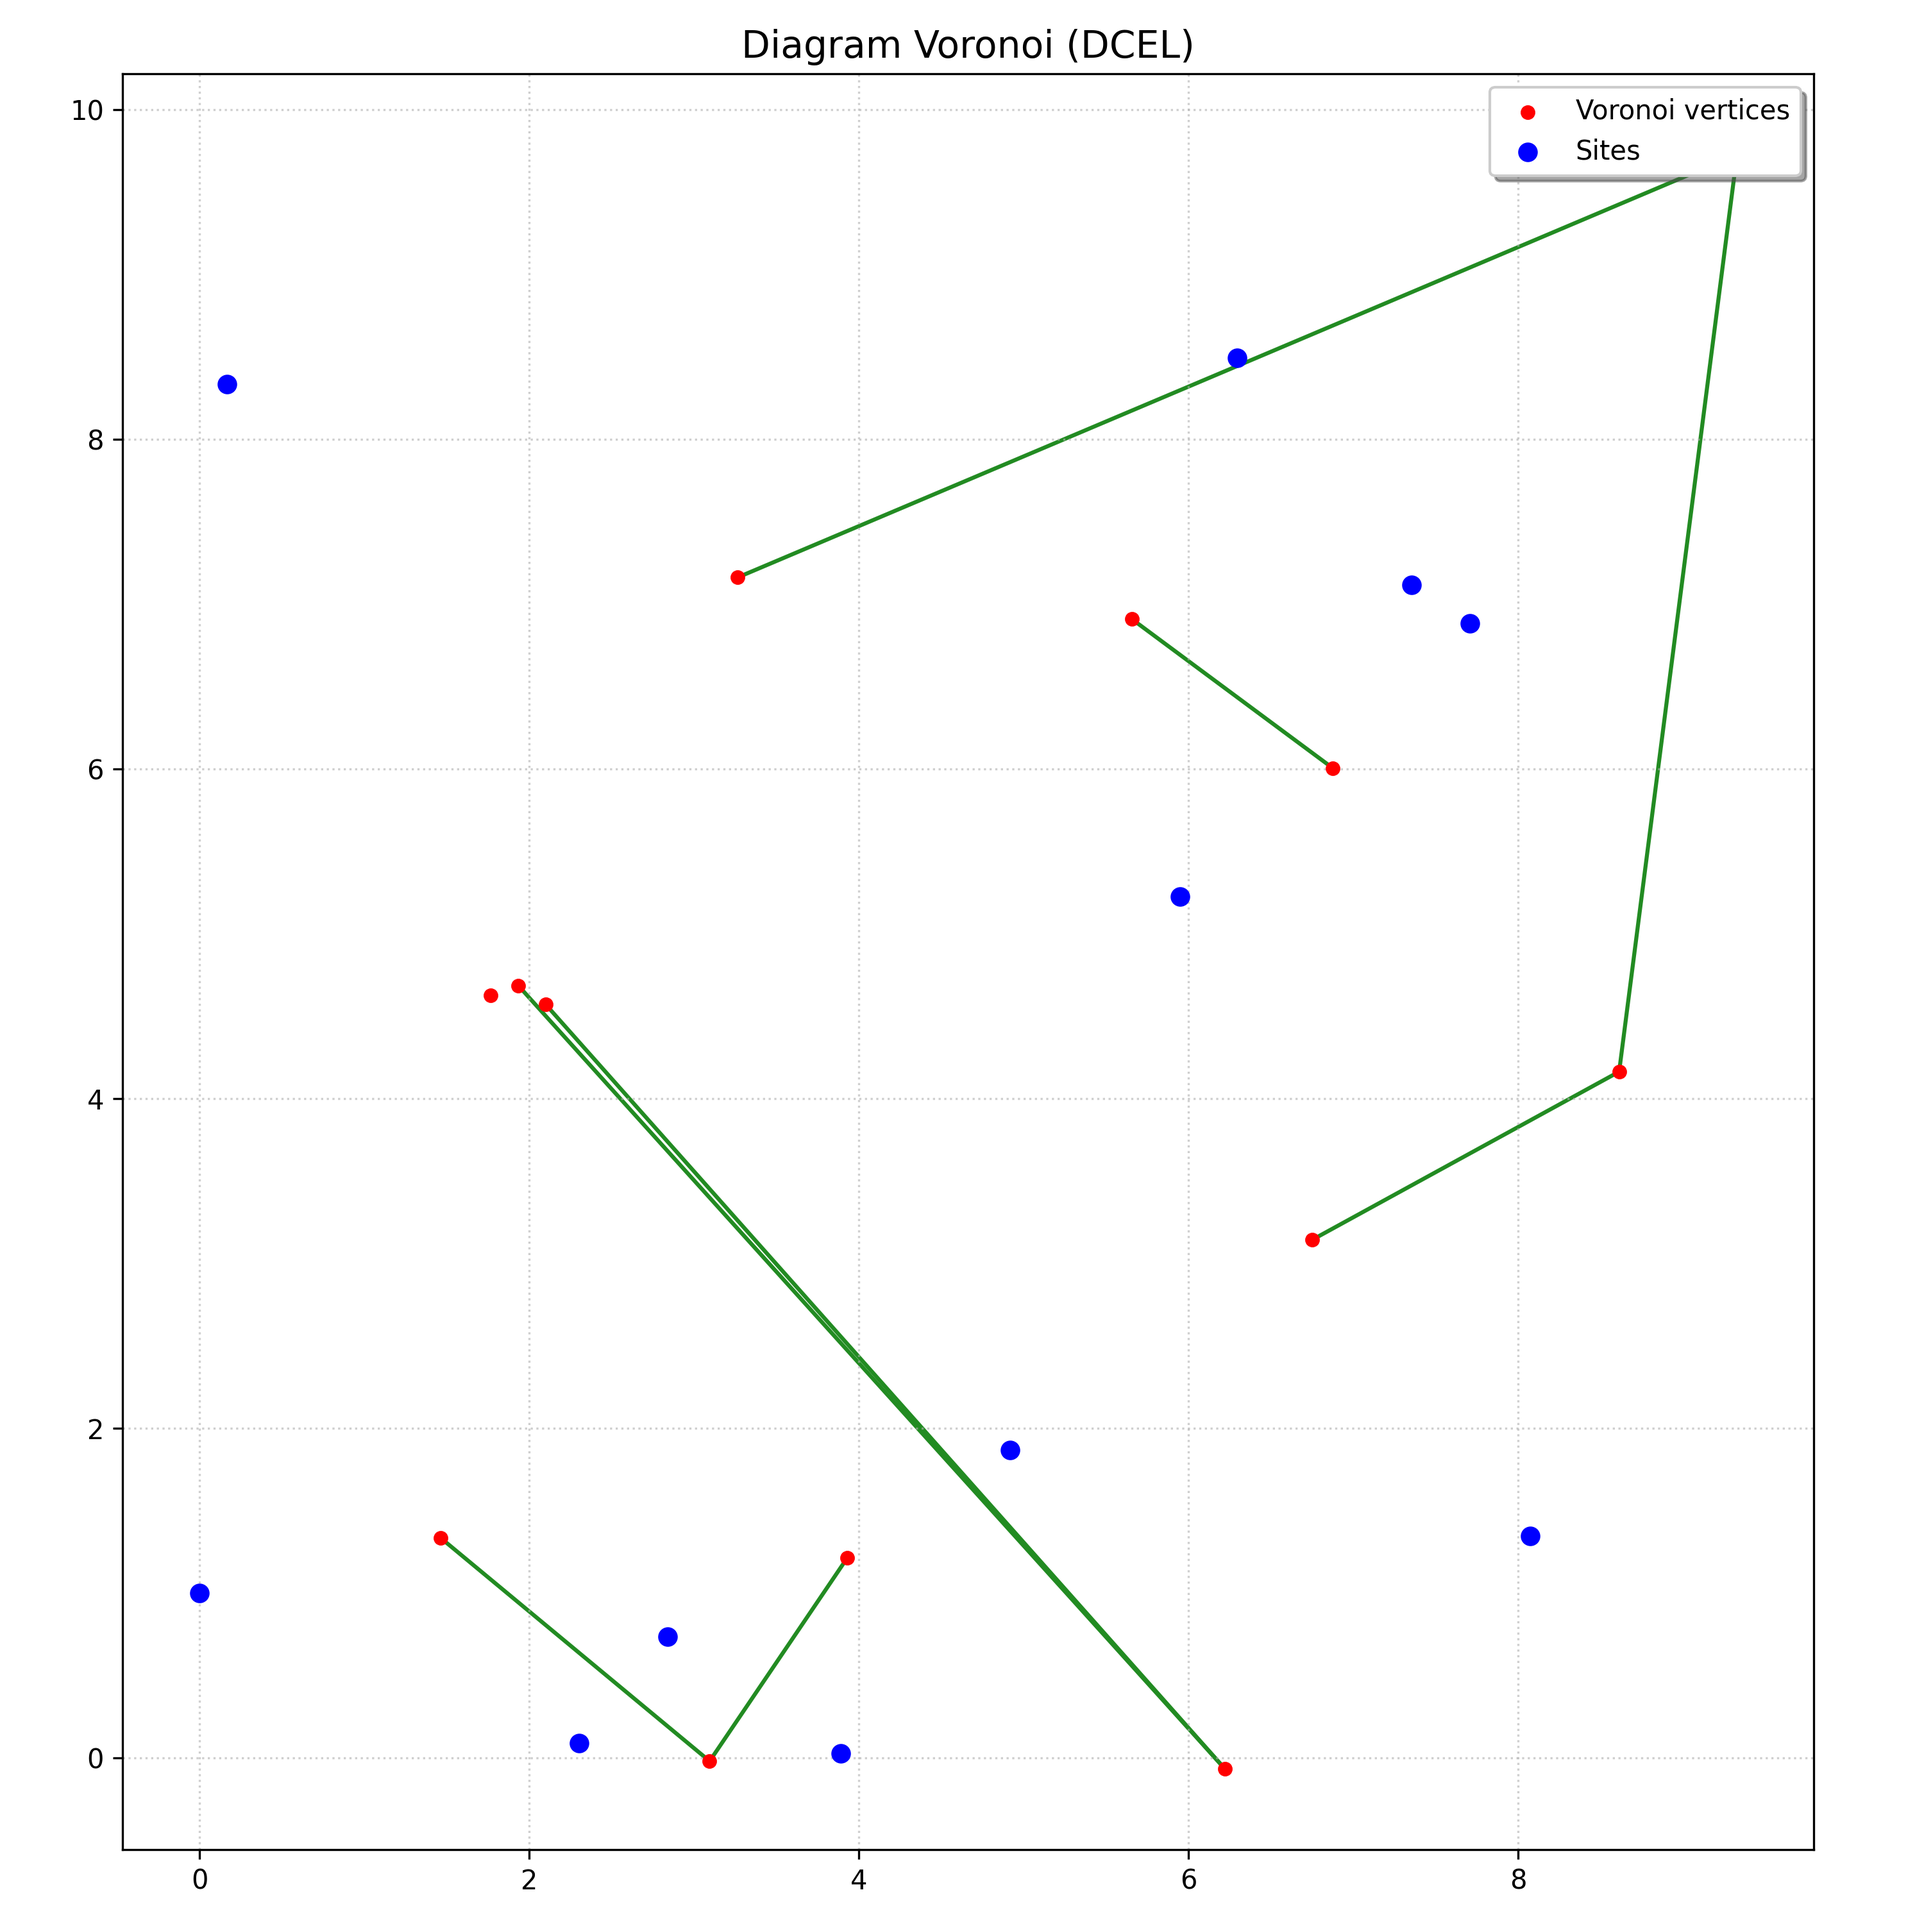
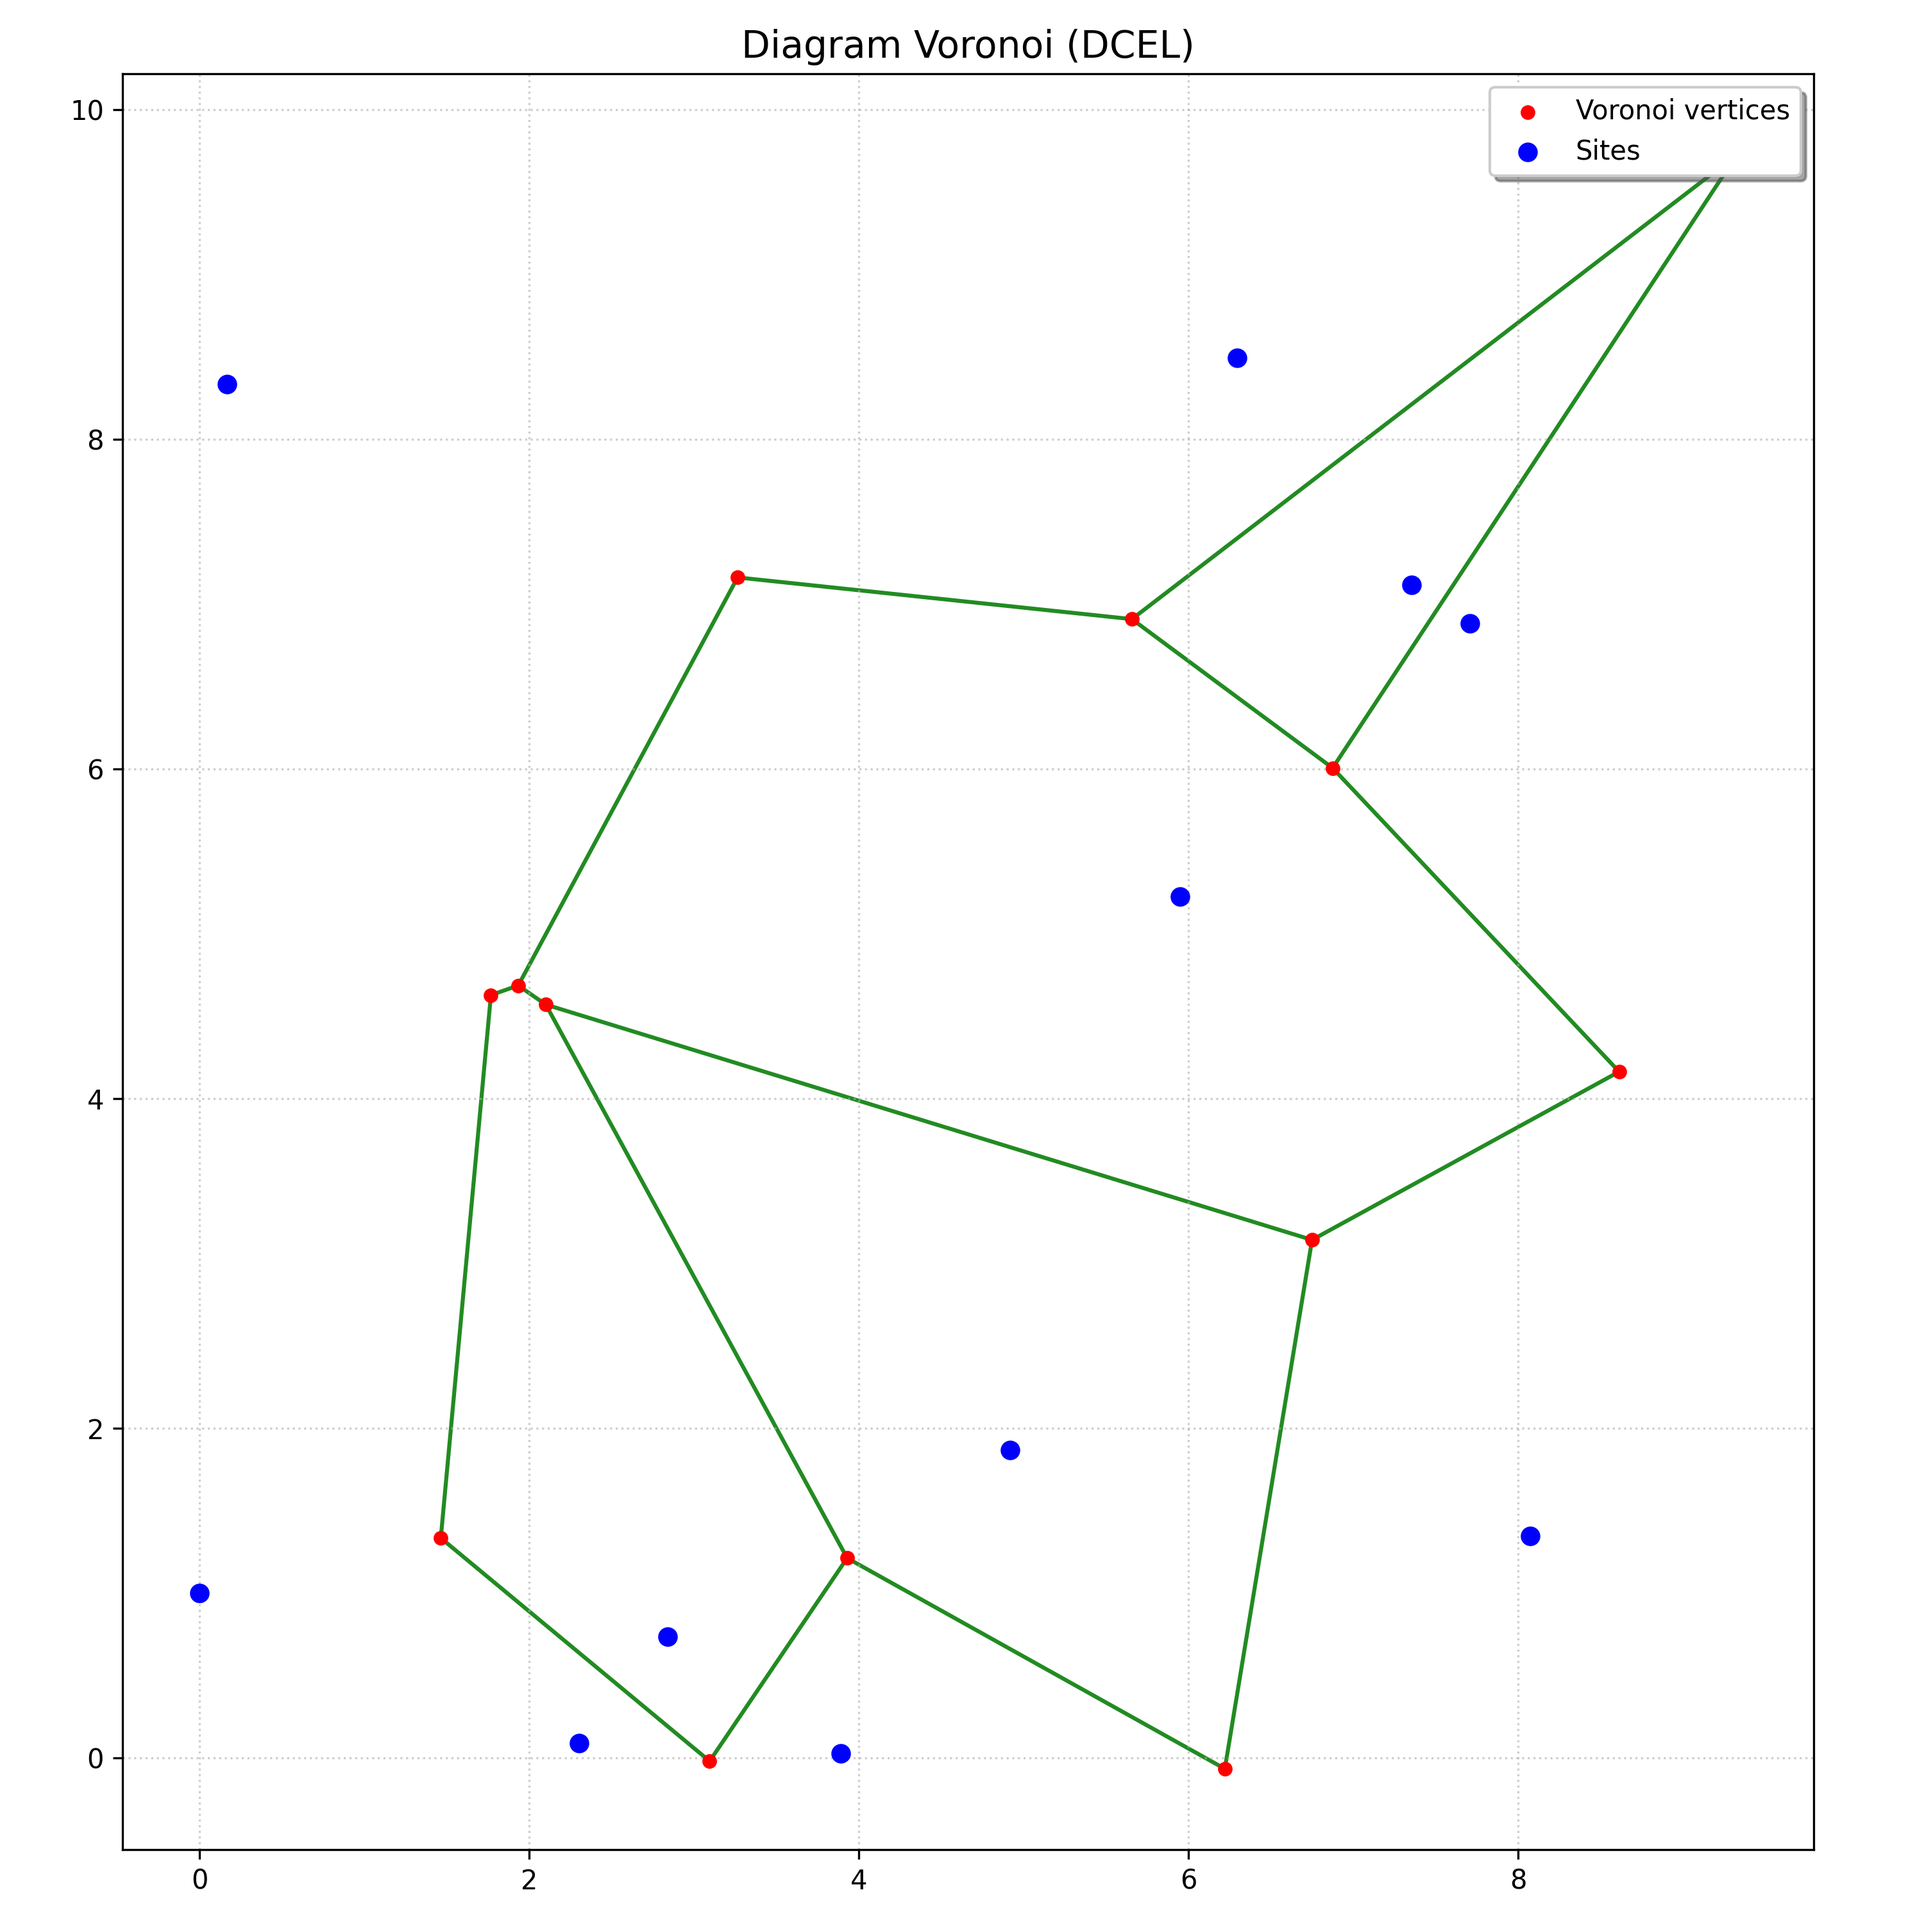
fix: fixed improperly connected edges by changing position of assigning new half edges to before updating tree in circle.py

diff --git a/src/algorithms/site.py b/src/algorithms/site.py
@@ -10,6 +10,47 @@ def handle_site_event(root: Root, new_event: SiteEvent, queue: EventsQueue, dcel
         root.node = Leaf(new_event.centre)
         print("First met point: ", root.node.centre)
         return root 
+    
+    if root.node is Leaf:
+        existing_leaf = root.node
+        
+        if existing_leaf.centre < new_event.centre:
+            new_subtree = replace_with_subtree(existing_leaf, new_event.centre, dcel)
+        else:
+            new_subtree = replace_with_subtree(existing_leaf, new_event.centre, dcel)
+            def rotate_right(node: Node) -> Node:
+                """
+                Performs a right rotation on a BST node.
+                
+                Before:        After:
+                    node          left_child
+                  LC     RC    LLC       node
+                LLC LRC               LRC      RC
+                
+                :param node: The node to rotate
+                :return: The new root of the subtree (left_child)
+                """
+                left_child = node.left_child
+                
+                # Perform rotation
+                node.left_child = left_child.right_child
+                if left_child.right_child is not None:
+                    left_child.right_child.parent = node
+                
+                left_child.right_child = node
+                left_child.parent = node.parent
+                node.parent = left_child
+                
+                return left_child
+            new_subtree = rotate_right(new_subtree)
+
+
+        root.node = new_subtree
+        new_subtree.parent = None
+        root._update_points_upwards(new_subtree)
+
+        print("Second met point: ", new_event.centre)
+        return root
             
     # 2. Finds leaf of arc from beach line above the new point
     arc_above = Root.find_arc_above(root, new_event, y_sweep)
@@ -175,8 +216,8 @@ def replace_with_subtree(arc_above: Leaf, new_centre: list, dcel: DCEL):
     A, B = point_j, point_i
 
     # Tuple of points representing breakpoint
-    AB = (point_j, point_i)
-    BA = (point_i, point_j)
+    # AB = (point_j, point_i)
+    # BA = (point_i, point_j)
 
     edge_AB = HalfEdge()
     edge_BA = HalfEdge()
@@ -188,7 +229,7 @@ def replace_with_subtree(arc_above: Leaf, new_centre: list, dcel: DCEL):
     edge_BA.origin = None
 
     face_A = dcel.add_face(A)
-    face_B = dcel.add_face(B) 
+    face_B = dcel.add_face(B)
 
     edge_AB.face = face_B
     edge_BA.face = face_A

diff --git a/src/algorithms/circle.py b/src/algorithms/circle.py
@@ -40,14 +40,12 @@ def handle_circle_event(
     # 5. Ustawiamy pochodzenie half-edgów
     he_left.origin = vertex
     he_right.origin = vertex
-    vertex.incident_edge.extend([he_left, he_right])
 
     # 6. Nowa krawędź Voronoia
     he_new = HalfEdge()
     he_new.twin = HalfEdge()
     he_new.origin = vertex
-    he_new.twin.origin = None
-
+    he_new.twin.origin = vertex
     # Połączenie half-edgów w cykl
     he_left.next = he_new
     he_new.next = he_right
@@ -61,8 +59,15 @@ def handle_circle_event(
 
     he_new.face = he_left.face
     he_new.twin.face = he_right.face
-    vertex.incident_edge.extend([he_new, he_new.twin])
+    vertex.incident_edge.extend([he_left, he_right, he_new, he_new.twin])
     dcel.half_edges.extend([he_new, he_new.twin])
+    arc_parent = arc.parent
+    if arc_parent is left_bp:
+        # left_bp will be destroyed → right_bp survives
+        right_bp.half_edge = he_new.twin
+    elif arc_parent is right_bp:
+        # right_bp will be destroyed → left_bp survives
+        left_bp.half_edge = he_new
 
     # 7. Aktualizacja BST
     root.replace_vanishing_leaf(arc)
@@ -70,10 +75,7 @@ def handle_circle_event(
     print("New half-edge origin:", (he_new.origin.x, he_new.origin.y) if he_new.origin else None)
     print("New half-edge twin origin:", (he_new.twin.origin.x, he_new.twin.origin.y) if he_new.twin.origin else None)
 
-    if left_arc.parent.half_edge is he_left:
-        left_arc.parent.half_edge = he_new
-    if right_arc.parent.half_edge is he_right:
-        right_arc.parent.half_edge = he_new.twin
+
 
 
     # 8. Unieważniamy stare circle eventy sąsiadów

diff --git a/main.py b/main.py
@@ -23,6 +23,8 @@ def plot_voronoi(points, dcel, filename="my_voronoi_diagram.png"):
                 ax.plot(x_vals, y_vals, color="forestgreen", linewidth=1.5, zorder=1)
                 seen_edges.add(edge_id)
 
+
+
     # 2. Rysowanie wierzchołków Voronoi (red)
     vx = [v.x for v in dcel.vertices]
     vy = [v.y for v in dcel.vertices]
@@ -73,7 +75,7 @@ def main():
 
     print("DCEL vertices:", [ (v.x, v.y) for v in dcel.vertices])
     print("DCEL faces:", [f.centre for f in dcel.faces])
-    print("DCEL half-edges:", [ (he.origin.x, he.origin.y) for he in dcel.half_edges if he.origin is not None])
+    # print("DCEL half-edges:", [ (he.origin.x, he.origin.y) for he in dcel.half_edges if he.origin is not None])
     # print("Non closed half-edges:", [ (he.origin, he.twin.origin) for he in dcel.half_edges if he.twin.origin is None])
     print("Count of faces:", len(dcel.faces))
     print("Count of half-edges:", len(dcel.half_edges))
@@ -85,6 +87,11 @@ def main():
     for he in dcel.half_edges:
         if he.origin and he.twin and he.twin.origin:
             print(f"  ({he.origin.x}, {he.origin.y}) -> ({he.twin.origin.x}, {he.twin.origin.y})")
+
+    print("Disconnected half-edges:")
+    for he in dcel.half_edges:
+        if he.origin and not he.twin:
+            print(f"  ({he.origin.x}, {he.origin.y}) -> (None)")
 
     fig, ax = plt.subplots()  # Create a figure containing a single Axes.
     x = []

diff --git a/src/structures/BST.py b/src/structures/BST.py
@@ -182,6 +182,7 @@ class Node:
         """
         x1, y1 = self.left_point
         x2, y2 = self.right_point
+    
         
         # Przypadek gdy oba punkty mają tę samą współrzędną y
         # (breakpoint jest dokładnie pośrodku)
@@ -200,6 +201,10 @@ class Node:
         u = 2 * (y1 - y_sweep)
         v = 2 * (y2 - y_sweep)
         
+        # Sprawdzenie czy któryś mianownik jest zerem (parabola zdegenerowana)
+        if u == 0 or v == 0:
+            return None
+        
         # Rozwiązanie równania kwadratowego:
         # 1/u * (x² - 2*x1*x + x1² + y1² - y_sweep²) = 1/v * (x² - 2*x2*x + x2² + y2² - y_sweep²)
         
@@ -208,8 +213,8 @@ class Node:
         
         a = u - v
         
-        if abs(a) < 1e-10:
-            return (x1 + x2) / 2
+        if a == 0:
+            return None
         
         # Obliczenie pierwiastka z wzoru z foronoi
         # x = -(sqrt(v * (x1² * u - 2*x1*x2*u + y1²*(u-v) + x2²*u) + y2²*u*(v-u) + y_sweep²*(u-v)²) + x1*v - x2*u) / (u-v)

diff --git a/src/utils/points.py b/src/utils/points.py
@@ -13,7 +13,7 @@ def generatePoints(number_points):
 
 def savePointsToFile(array_points):
     df = pd.DataFrame(array_points)
-    df.to_csv("points.csv", index = False, sep = ";")
+    df.to_csv("sdf.csv", index = False, sep = ";")
     print("Zapisano do pliku")
 
 def readPointsFromFile(path):
@@ -31,20 +31,20 @@ def readPointsFromFile(path):
     return array_points
 
 def main():
-    #print("zaczynam")
-    #points = []
-    #N = 10
+    print("zaczynam")
+    points = []
+    N = 10
 
-    print("Punkty z pliku")
-    points = readPointsFromFile("data/points.csv") 
+    # print("Punkty z pliku")
+    # points = readPointsFromFile("data/points.csv") 
+    # print(points)
+
+    print("Wygenerowane punkty")
+    points = generatePoints(N)
     print(points)
 
-    #print("Wygenerowane punkty")
-    #points = generatePoints(N)
-    #print(points)
 
-
-    #savePointsToFile(points)
+    savePointsToFile(points)
 
     
     #points = np.asarray(points)

diff --git a/src/structures/QE.py b/src/structures/QE.py
@@ -77,7 +77,7 @@ class CircleEvent:
         return ox, oy
 
     @staticmethod
-    def check_circle_event(arcs: list(), y_sweep: float, queue: EventsQueue):
+    def check_circle_event(arcs: list, y_sweep: float, queue: EventsQueue):
         """
         Checks whether three consecutive arcs generate a valid circle event.
         If yes, inserts it into the event queue.
